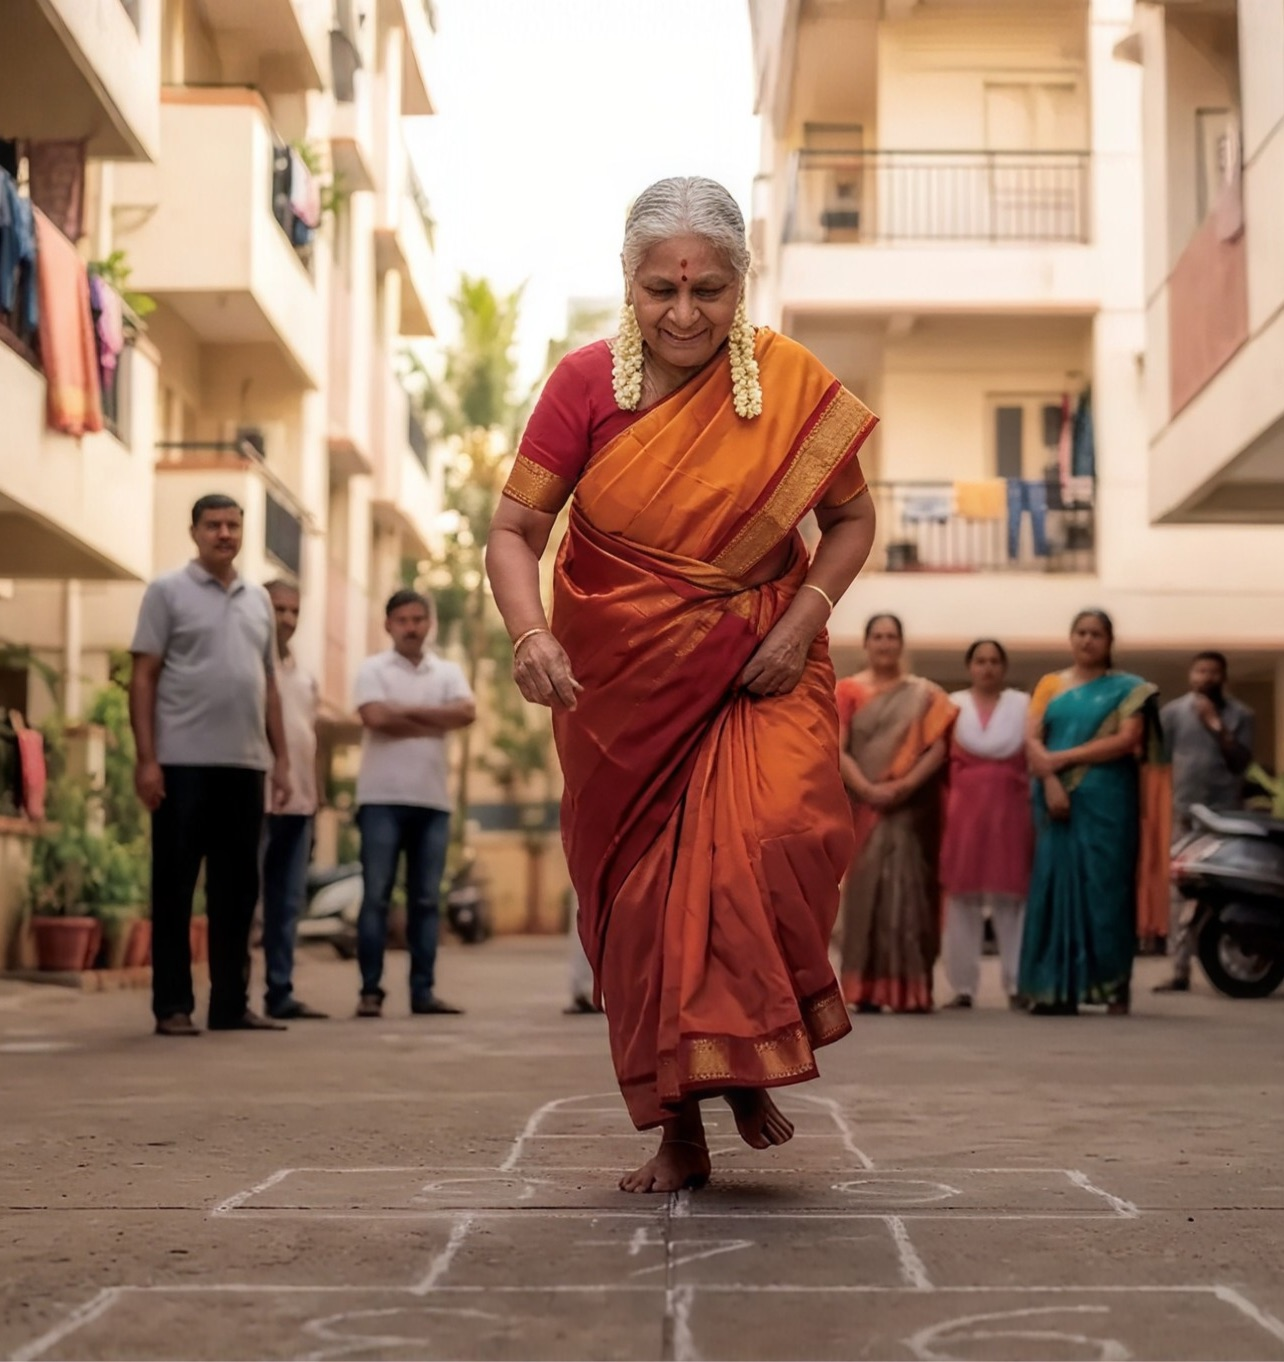
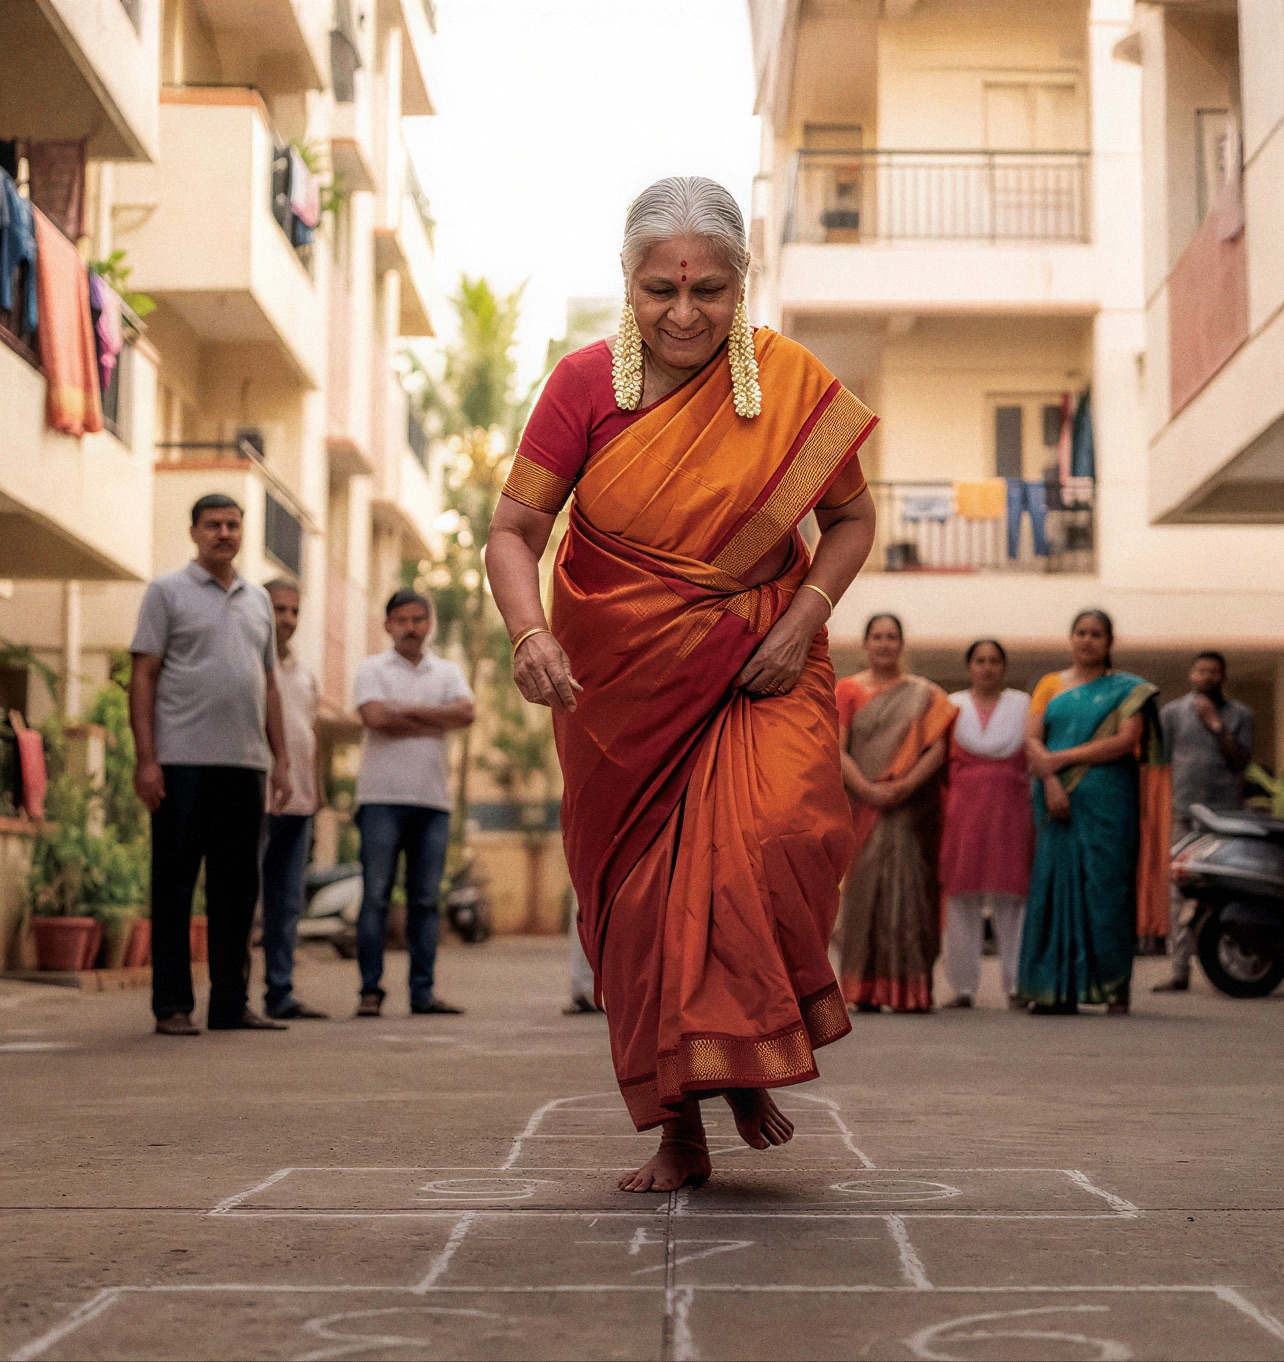
Drawer: grow-in entrance, deeper wide gutter, new tall image
ENTRANCE now grows rather than slides. It always had a scale on it, but
travel was -100% — the panel crossed its own width before arriving and
the scale change was invisible underneath that, so it read as a plain
slide. Travel is now 26%, scale starts at 0.72 instead of 0.92, and
transform-origin is pinned to the arriving edge so it grows OUT of that
edge rather than from its own middle. Measured through the entrance:
scale 0.72 -> 1 while x moves only -146 -> 0, so the growth is carrying
the movement.

WIDE GUTTER deepened to 64px. A wide panel sets its copy against a long
edge, where the 32px that reads as generous on a narrow card reads as
cramped. Reset to 20px on mobile, where the deeper gutter just eats the
line length.

That override had to move below .content to take effect: .content sets
`padding` as a shorthand, and at equal specificity the later declaration
wins, so the same rule written beside .contentWide was silently reset to
32px. Caught by reading the computed value rather than the source.

TALL IMAGE replaced with the new artwork, converted to JPEG on the way
in for the same reason as the others.

diff --git a/src/components/marketing/MarketingDrawer/MarketingDrawer.tsx b/src/components/marketing/MarketingDrawer/MarketingDrawer.tsx
@@ -35,11 +35,25 @@ type Props = {
   onClose: () => void;
 };
 
+/**
+ * Entry travel, deliberately SHORT. At -100% the panel crossed its own
+ * width before arriving and the scale change was invisible underneath it,
+ * so the whole thing read as a plain slide. A quarter of the distance lets
+ * the growth carry the movement instead.
+ */
 const TRAVEL: Record<BannerConfig["side"], { x?: string; y?: string }> = {
-  left: { x: "-100%" },
-  right: { x: "100%" },
-  top: { y: "-100%" },
-  bottom: { y: "100%" },
+  left: { x: "-26%" },
+  right: { x: "26%" },
+  top: { y: "-26%" },
+  bottom: { y: "26%" },
+};
+
+/** Grow OUT of the edge it arrives from, rather than from its own middle. */
+const ORIGIN: Record<BannerConfig["side"], string> = {
+  left: "left center",
+  right: "right center",
+  top: "center top",
+  bottom: "center bottom",
 };
 
 /** The glow leads, the drawer follows. */
@@ -149,10 +163,12 @@ export default function MarketingDrawer({ open, config, onClose }: Props) {
             role="dialog"
             aria-modal="true"
             aria-label="Promotional message"
-            initial={{ ...travel, opacity: 0, scale: 0.92, filter: "blur(14px)" }}
+            style={{ transformOrigin: ORIGIN[config.side] }}
+            // Scale carries the entrance; travel only nudges it off the edge.
+            initial={{ ...travel, opacity: 0, scale: 0.72, filter: "blur(16px)" }}
             animate={{ x: 0, y: 0, opacity: 1, scale: 1, filter: "blur(0px)" }}
-            exit={{ ...travel, opacity: 0, scale: 0.92, filter: "blur(14px)" }}
-            transition={{ duration: 0.72, delay: GLOW_LEAD, ease: ease.spring }}
+            exit={{ ...travel, opacity: 0, scale: 0.72, filter: "blur(16px)" }}
+            transition={{ duration: 0.88, delay: GLOW_LEAD, ease: ease.spring }}
           >
             <div className={styles.traceBorder} aria-hidden />
 

diff --git a/src/components/marketing/MarketingDrawer/MarketingDrawer.module.css b/src/components/marketing/MarketingDrawer/MarketingDrawer.module.css
@@ -151,7 +151,10 @@
   bottom: 0;
 }
 
-/* Wide drawer: copy down the left, which is the axis that has room. */
+/* Wide drawer: copy down the left, which is the axis that has room.
+   Deeper left padding than the tall drawer gets — a wide panel puts the
+   copy against a long edge, and the 32px that reads as generous on a
+   narrow card reads as cramped here. */
 .contentWide {
   left: 0;
   top: 0;
@@ -213,6 +216,14 @@
   align-items: flex-start;
   gap: var(--space-16);
   padding: var(--space-32);
+}
+
+/* Declared after .content on purpose. .content sets `padding` as a
+   shorthand, and at equal specificity the later declaration wins — so the
+   same override written beside .contentWide above was silently reset to
+   32px. */
+.contentWide {
+  padding-left: var(--space-64);
 }
 
 .headline {
@@ -377,6 +388,9 @@
     width: auto;
     right: 0;
     justify-content: flex-end;
+    /* The deeper gutter is for a long edge on a desktop panel; on a phone
+       it just eats the line length. */
+    padding-left: var(--space-20);
   }
 
   .content { padding: var(--space-20); gap: var(--space-12); }
